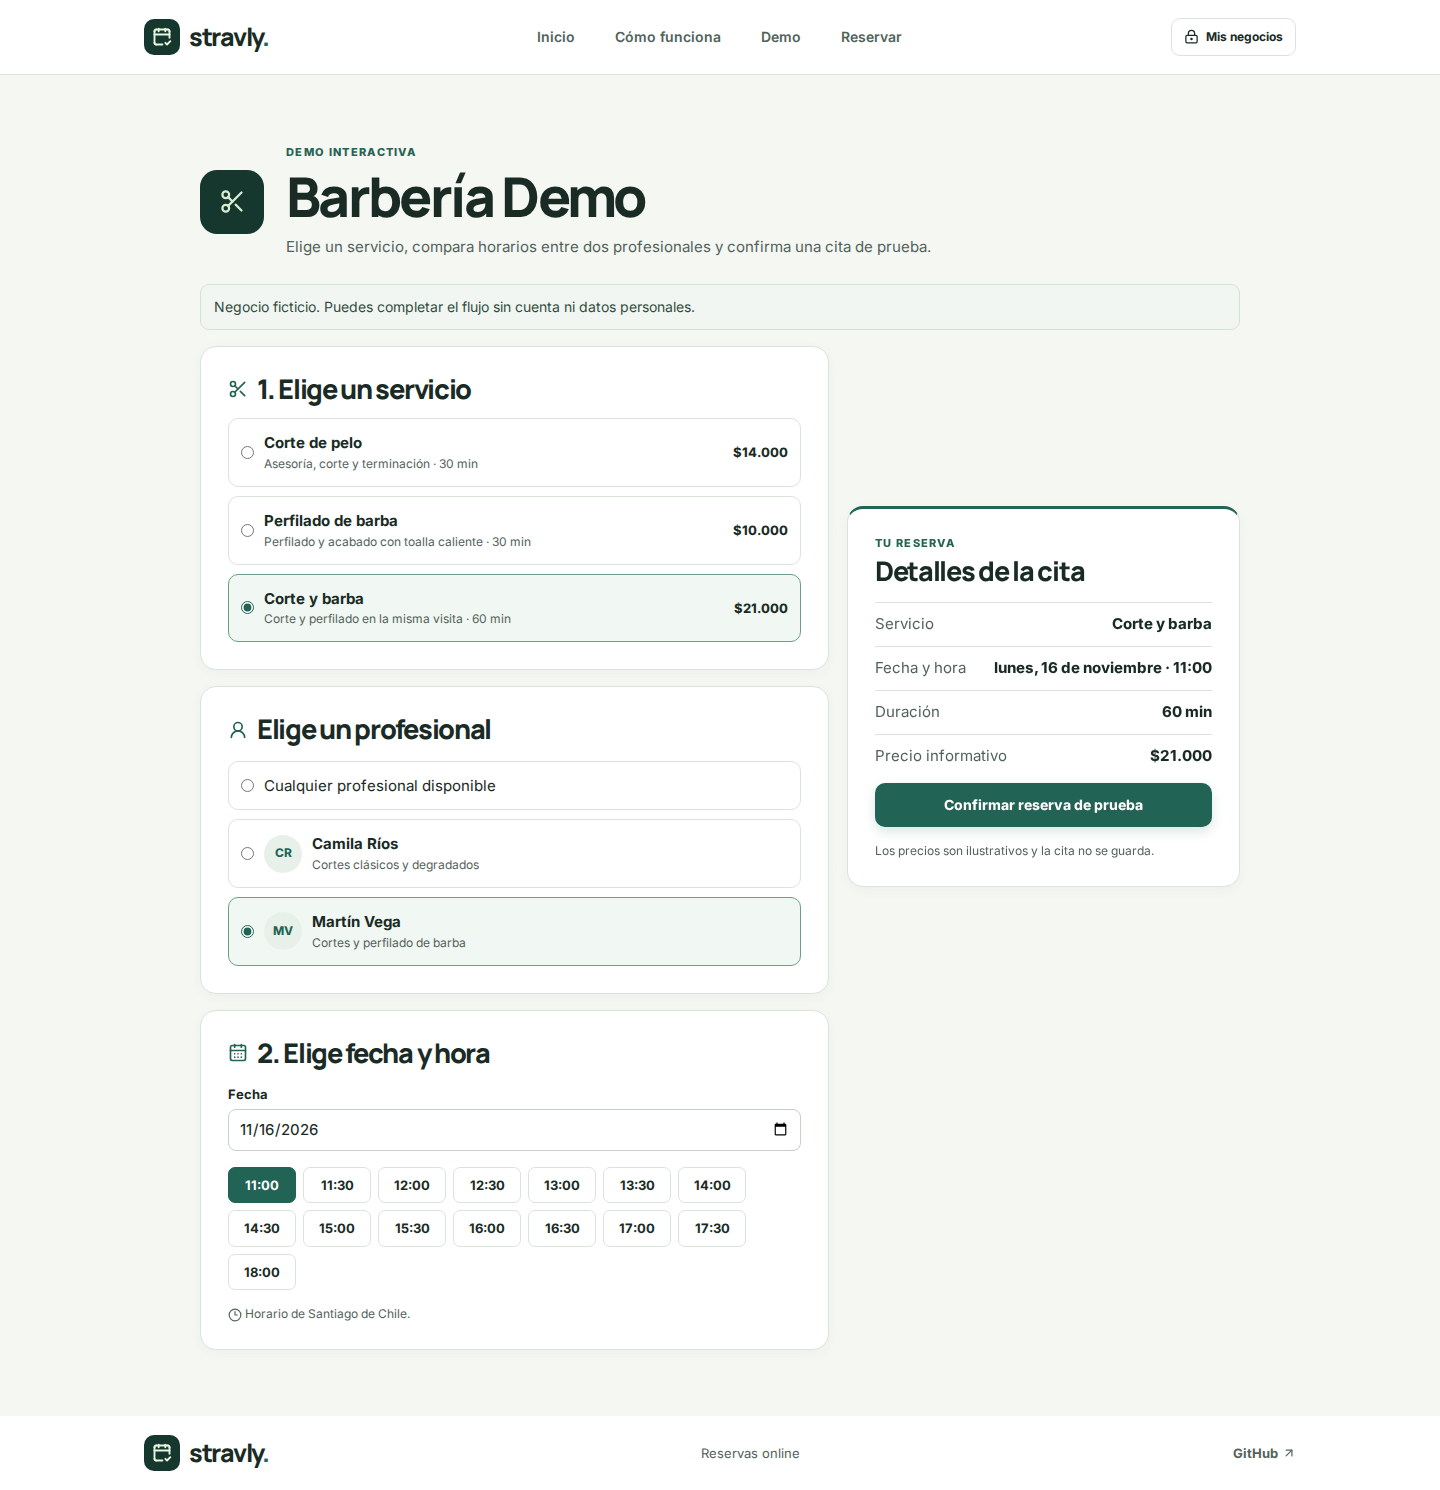
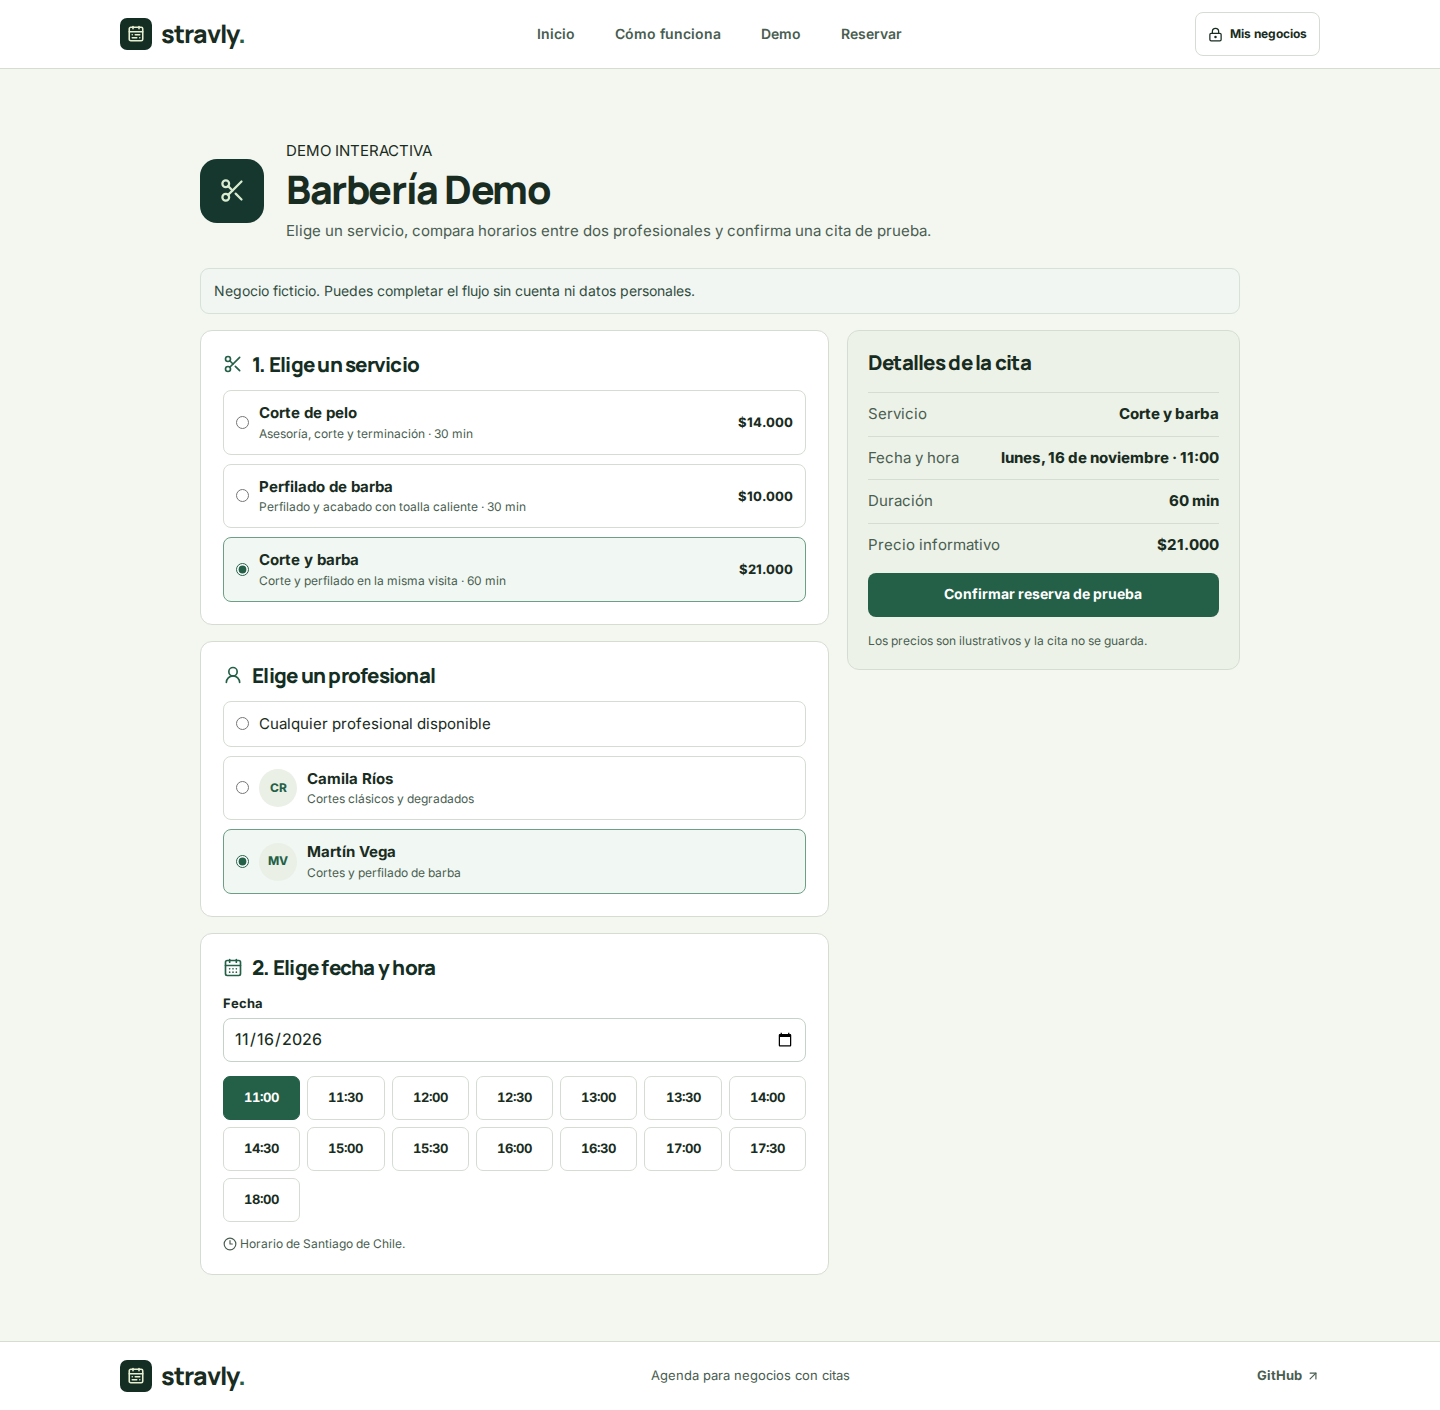
Actualiza las capturas del rediseño en tres tamaños

diff --git a/README.md b/README.md
@@ -23,6 +23,8 @@ La demo **Barbería Demo** incluye tres servicios y dos profesionales ficticios.
 | ![Selección de servicio, profesional y horario](docs/capturas/portfolio-demo-reserva.png) | ![Agenda semanal con dos profesionales](docs/capturas/portfolio-agenda.png) |
 | [Reserva en móvil](docs/capturas/portfolio-demo-movil.png) | [Gestión de profesionales](docs/capturas/portfolio-trabajadores.png) |
 
+[Portada en tablet](docs/capturas/portfolio-portada-tablet.png) · [Portada en móvil](docs/capturas/portfolio-portada-movil.png) · [Portada anterior](https://github.com/benjaalbo888/stravly/blob/24ad9a4/docs/capturas/portfolio-portada.png)
+
 Las capturas se tomaron en la aplicación con negocios, profesionales y clientes ficticios.
 
 ## Tecnologías y arquitectura
